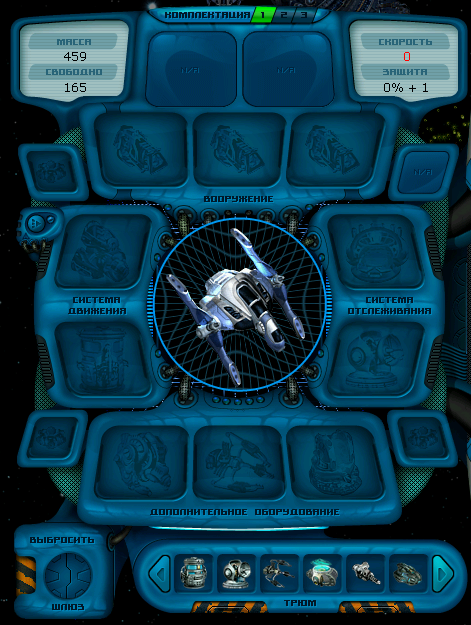
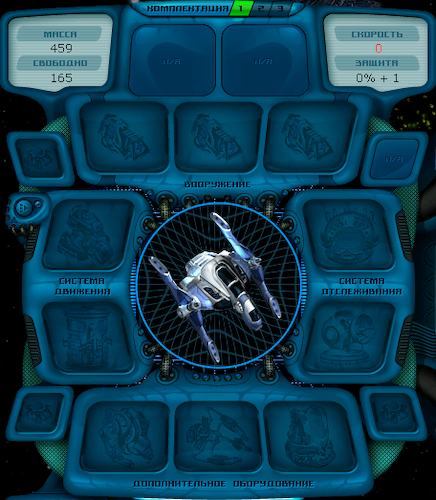
#54 added inventory containers

diff --git a/client-module/src/render-service.js b/client-module/src/render-service.js
@@ -14,7 +14,7 @@ const Sort = {
 
 // fast container for all spritesContainer (faster than Container in 3-5 times)
 let spritesContainer;
-let inventory;
+let inventoryContainer;
 
 let windowWidth;
 let windowHeight;
@@ -30,8 +30,7 @@ export function initRender() {
     const bgFirst = createBackground(pixi.Texture.from("./images/background/bgFirstLevel.png"));
     app.stage.addChild(bgFirst);
 
-    inventory = createInventory();
-    app.stage.addChild(inventory);
+    inventoryContainer = createInventory();
 
     spritesContainer = createSpritesContainer();
     app.stage.addChild(spritesContainer);
@@ -41,13 +40,12 @@ export function initRender() {
 
     //TODO #24 window.addEventListener('resize', resize);
 
-    app.stage.sortChildren();
-
     app.ticker.add(() => {
         renderCharacters();
         updateLocationText(posInfoLabel);
         updateBackground(bgLast, 3);
         updateBackground(bgFirst, 2);
+        app.stage.sortChildren();
     });
 }
 
@@ -80,16 +78,6 @@ function createSpritesContainer() {
     });
 }
 
-function createInventory() {
-    inventory = pixi.Sprite.from("./images/inventory_empty.png");
-    inventory.visible = false;
-    inventory.anchor.set(0.5, 0.5);
-    inventory.position.set(window.innerWidth / 2, window.innerHeight / 2);
-    inventory.zIndex = Sort.INVENTORY
-
-    return inventory;
-}
-
 function getX(currX, diffX) {
     return currX - diffX + windowWidth;
 }
@@ -110,7 +98,7 @@ function updateBackground(bg, div) {
 }
 
 export function changeStateInventory(state) {
-    inventory.visible = state;
+    inventoryContainer.visible = state;
 }
 
 /// Character
@@ -147,6 +135,7 @@ export function createCharacterLabel(character) {
     let label = new pixi.Text(character.characterName, {
         fill: 0xffffff,
     });
+    label.zIndex = Sort.OTHER_PLAYERS;
     app.stage.addChild(label);
 
     return label;
@@ -155,4 +144,39 @@ export function createCharacterLabel(character) {
 export function removeCharacter(character) {
     spritesContainer.removeChild(character.sprite);
     app.stage.removeChild(character.label);
+}
+
+/// Inventory
+function createInventory() {
+    let inventoryContainer = new pixi.Container();
+    app.stage.addChild(inventoryContainer);
+    inventoryContainer.visible = true;
+
+    let inventory = pixi.Sprite.from("./images/inventory_empty.png");
+    inventory.position.set(inventoryContainer.width / 2, inventoryContainer.height / 2)
+    inventoryContainer.addChild(inventory);
+    inventory.width = 436;
+    inventory.height = 500;
+    inventory.position.set(0, 0);
+
+    let holdContainer = new pixi.Container();
+    let hold = pixi.Sprite.from("./images/hold_empty.png");
+    holdContainer.addChild(hold);
+    hold.width = 336;
+    hold.height = 76;
+    hold.anchor.set(0.5, 0);
+    hold.position.set(inventory.width / 2, inventory.height);
+
+    inventoryContainer.addChild(holdContainer);
+    inventoryContainer.height = inventory.height + hold.height;
+    inventoryContainer.width = inventory.width;
+    inventoryContainer.position.set(app.screen.width / 2, app.screen.height / 2);
+    inventoryContainer.pivot.set(inventoryContainer.width / 2, inventoryContainer.height / 2);
+    inventoryContainer.zIndex = Sort.INVENTORY;
+
+    return inventoryContainer;
+}
+
+export function renderEngines() {
+
 }
